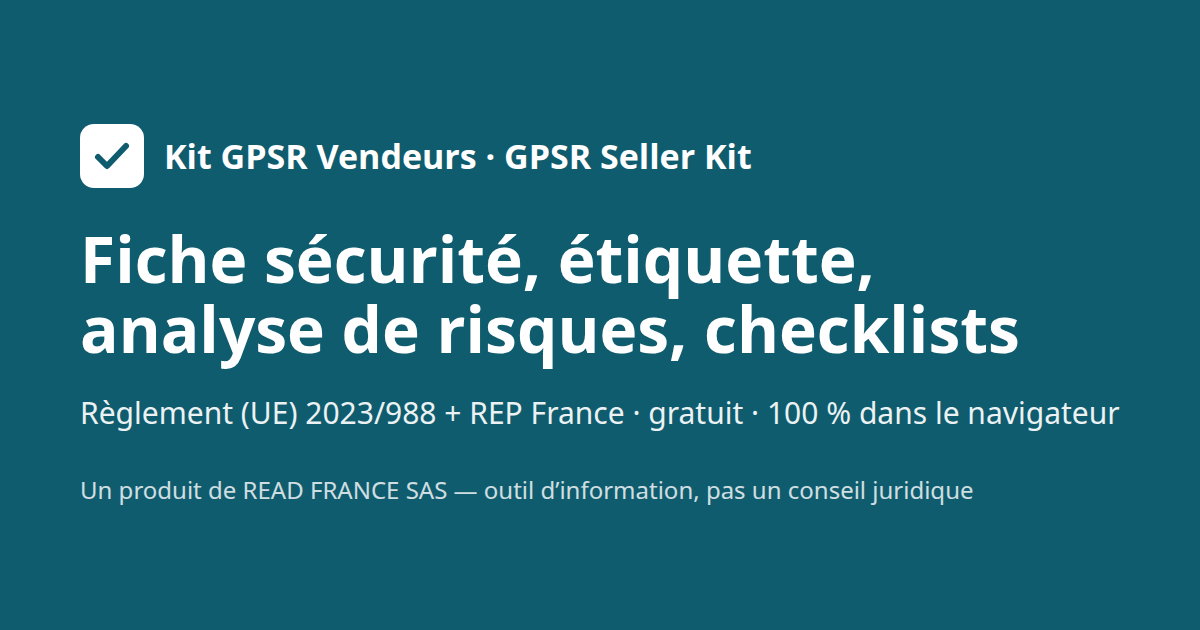
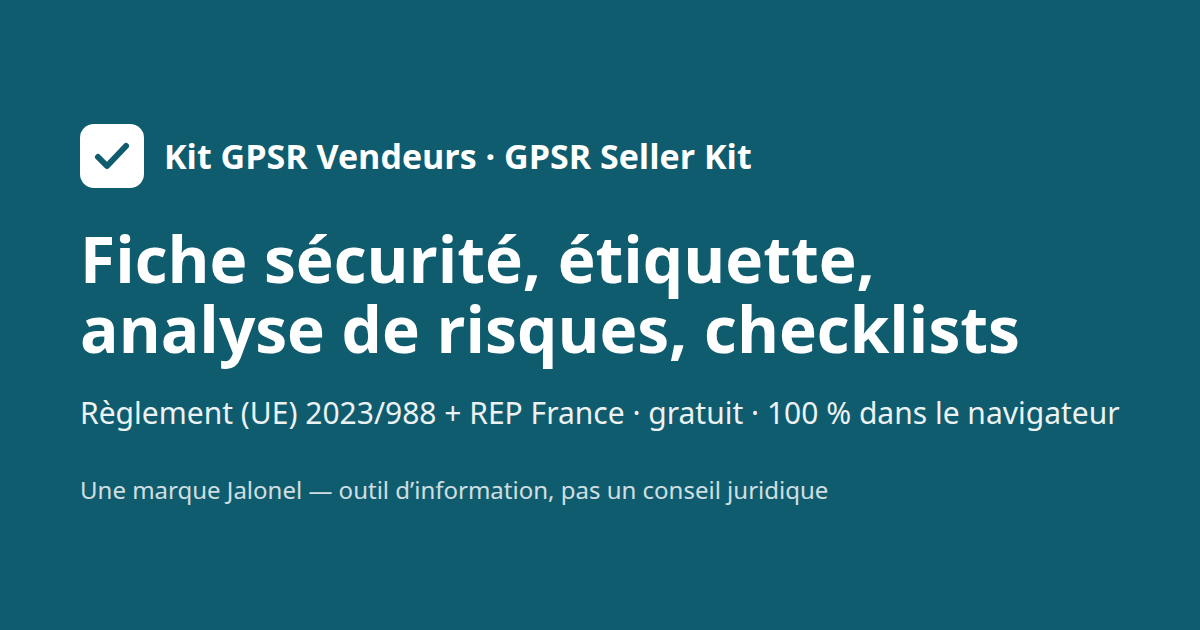
Move to the Jalonel brand: site served at the root of gpsr.jalonel.com
- canonical, hreflang, og, JSON-LD, sitemap, robots on the new origin; site root moves from /kit-gpsr-vendeurs/ to /
- brand: « Une marque Jalonel » in the footer, JSON-LD publisher = Jalonel (parentOrganization READ FRANCE SAS);
  the legal operator READ FRANCE SAS stays in the legal notice, terms and privacy pages, plus « Jalonel est une marque de READ FRANCE SAS. »
- cross-site links to the Jalonel subdomains, « Tous les outils » to https://jalonel.com/
- cro.js data-hosts accepts the new host; mesure.js re-vendored from octave-checkout (accepts *.jalonel.com)
- CNAME and IndexNow key at the published root; tests and README follow

Changed region(s): [[0.0925, 0.754, 0.8017, 0.8143]]

diff --git a/tests/unit/jsonld.test.js b/tests/unit/jsonld.test.js
@@ -1,5 +1,5 @@
 // schema.org JSON-LD: the pack page carries a Product + Offer (only while SALES_OPEN is true) sold by the
-// hub Organization; pages reference that Organization by @id (https://outils.vread.fr/#org) and never repeat it.
+// hub Organization; pages reference that Organization by @id (https://jalonel.com/#org) and never repeat it.
 import { test } from 'node:test';
 import assert from 'node:assert/strict';
 import { execFileSync } from 'node:child_process';
@@ -10,7 +10,7 @@ import { join, resolve } from 'node:path';
 const ROOT = resolve(import.meta.dirname, '..', '..');
 const repoConfig = JSON.parse(readFileSync(join(ROOT, 'sales.config.json'), 'utf8'));
 const tmp = mkdtempSync(join(tmpdir(), 'jsonld-'));
-const ORG_ID = 'https://outils.vread.fr/#org';
+const ORG_ID = 'https://jalonel.com/#org';
 
 function build(config, env = {}) {
   const cfg = join(tmp, `cfg-${Math.random().toString(36).slice(2)}.json`);
@@ -27,7 +27,7 @@ function jsonld(html) {
 }
 const byType = (nodes, type) => nodes.filter((n) => n['@type'] === type);
 
-const ORG_REF = { '@type': 'Organization', '@id': ORG_ID, name: 'READ FRANCE SAS' };
+const ORG_REF = { '@type': 'Organization', '@id': ORG_ID, name: 'Jalonel', url: 'https://jalonel.com/', parentOrganization: { '@type': 'Organization', name: 'READ FRANCE SAS', identifier: 'SIREN 988741773' } };
 
 /** The full Organization node lives on the hub only: no page here may repeat it. */
 function assertNoOrganizationCopy(nodes) {
@@ -49,8 +49,8 @@ for (const [file, lang] of [['pack.html', 'fr'], ['en/pack.html', 'en']]) {
     assert.equal(p.name, 'Pack documentation GPSR');
     assert.equal(p.sku, 'pack-gpsr');
     assert.deepEqual(p.brand, { '@type': 'Brand', name: 'Kit GPSR Vendeurs' });
-    assert.equal(p.url, `https://outils.vread.fr/kit-gpsr-vendeurs/${lang === 'fr' ? '' : 'en/'}pack.html`);
-    assert.equal(p.image, 'https://outils.vread.fr/kit-gpsr-vendeurs/assets/og.png');
+    assert.equal(p.url, `https://gpsr.jalonel.com/${lang === 'fr' ? '' : 'en/'}pack.html`);
+    assert.equal(p.image, 'https://gpsr.jalonel.com/assets/og.png');
     assert.ok(p.description.length > 50);
     const o = p.offers;
     assert.equal(o['@type'], 'Offer');
@@ -58,14 +58,14 @@ for (const [file, lang] of [['pack.html', 'fr'], ['en/pack.html', 'en']]) {
     assert.equal(o.priceCurrency, 'EUR');
     assert.equal(o.availability, 'https://schema.org/InStock');
     assert.equal(o.itemCondition, 'https://schema.org/NewCondition');
-    assert.equal(o.url, 'https://outils.vread.fr/kit-gpsr-vendeurs/commander.html');
+    assert.equal(o.url, 'https://gpsr.jalonel.com/commander.html');
     assert.deepEqual(o.seller, { '@id': ORG_ID });
     assert.ok(!('valueAddedTaxIncluded' in o), 'no valueAddedTaxIncluded');
     assert.equal(o.shippingDetails.shippingRate.value, '0');
     assert.equal(o.shippingDetails.shippingDestination.addressCountry, 'FR');
     assert.equal(o.hasMerchantReturnPolicy.returnPolicyCategory, 'https://schema.org/MerchantReturnNotPermitted');
     assert.equal(o.hasMerchantReturnPolicy.applicableCountry, 'FR');
-    assert.match(o.hasMerchantReturnPolicy.merchantReturnLink, /^https:\/\/outils\.vread\.fr\/kit-gpsr-vendeurs\/.+/);
+    assert.match(o.hasMerchantReturnPolicy.merchantReturnLink, /^https:\/\/gpsr\.jalonel\.com\/.+/);
   });
 }
 
@@ -84,7 +84,7 @@ test('SALES_OPEN=false: no Product JSON-LD on the pack pages', () => {
 });
 
 test('home pages: free WebApplication published by the hub Organization (@id), visible pack link with the net price', () => {
-  for (const [file, re] of [['index.html', /<a href="\/kit-gpsr-vendeurs\/pack\.html">Pack documentation GPSR, 29 € net<\/a>/], ['en/index.html', /<a href="\/kit-gpsr-vendeurs\/en\/pack\.html">GPSR documentation pack, €29 net<\/a>/]]) {
+  for (const [file, re] of [['index.html', /<a href="\/pack\.html">Pack documentation GPSR, 29 € net<\/a>/], ['en/index.html', /<a href="\/en\/pack\.html">GPSR documentation pack, €29 net<\/a>/]]) {
     const html = readFileSync(join(open, file), 'utf8');
     const nodes = jsonld(html);
     assertNoOrganizationCopy(nodes);
@@ -118,8 +118,8 @@ test('pack and obligations pages: BreadcrumbList (generator > page); obligations
     const [bc] = byType(nodes, 'BreadcrumbList');
     assert.ok(bc, `${file} BreadcrumbList`);
     assert.equal(bc.itemListElement.length, 2);
-    assert.equal(bc.itemListElement[0].item, `https://outils.vread.fr/kit-gpsr-vendeurs/${lang === 'fr' ? '' : 'en/'}`);
-    assert.equal(bc.itemListElement[1].item, `https://outils.vread.fr/kit-gpsr-vendeurs/${lang === 'fr' ? '' : 'en/'}${file.replace(/^en\//, '')}`);
+    assert.equal(bc.itemListElement[0].item, `https://gpsr.jalonel.com/${lang === 'fr' ? '' : 'en/'}`);
+    assert.equal(bc.itemListElement[1].item, `https://gpsr.jalonel.com/${lang === 'fr' ? '' : 'en/'}${file.replace(/^en\//, '')}`);
     if (!file.includes('obligations')) continue;
     assertNoOrganizationCopy(nodes);
     const [art] = byType(nodes, 'Article');

diff --git a/tests/unit/sales-gate.test.js b/tests/unit/sales-gate.test.js
@@ -16,7 +16,7 @@ import { chromium } from '@playwright/test';
 
 const ROOT = resolve(import.meta.dirname, '..', '..');
 const BUILD = ['scripts/build-site.mjs'];
-const SITE_PREFIX = ''; // files are read from OUT; the browser test serves OUT under /kit-gpsr-vendeurs/
+const SITE_PREFIX = ''; // files are read from OUT; the browser test serves OUT at the root, like gpsr.jalonel.com
 const PRODUCT = 'kit-gpsr-pack';
 const PRICE_RE = /29,00\s€ net de taxe \(TVA non applicable, art\. 293 B du CGI\)/;
 const SOON_RE = /Pas encore en vente/;
@@ -128,7 +128,7 @@ test('B2B terms (cgv-pro.html): every required clause, version, review comment, 
   if (repoConfig.VAT === 'franchise293B') assert.doesNotMatch(text, /TTC|toutes taxes comprises|FR57988741773|de TVA au taux/, 'franchise 293 B: no VAT wording in the B2B terms');
   assert.match(html, /READ FRANCE SAS/);
   assert.match(html, /<footer/);
-  assert.match(html, /href="\/kit-gpsr-vendeurs\/cgv-pro\.html"/);
+  assert.match(html, /href="\/cgv-pro\.html"/);
   assert.match(read(build({ ...repoConfig, SALES_OPEN: false }), 'en/terms.html'), /French version|French B2B terms/);
   for (const n of [5, 6, 12, 13, 15]) assert.match(html, new RegExp(`<h2>${n}\\. `), `article ${n}`);
   assert.match(html, /<h2>5\. Commande et paiement<\/h2>[\s\S]*<h2>6\. Livraison et délai<\/h2>[\s\S]*<h2>10\. Conformité[\s\S]*<h2>12\. Facturation[\s\S]*<h2>13\. Données personnelles<\/h2>[\s\S]*<h2>15\. Dispositions diverses<\/h2>/);
@@ -161,7 +161,7 @@ before(async () => {
     }
   });
   await new Promise((r) => server.listen(0, '127.0.0.1', r));
-  base = `http://127.0.0.1:${server.address().port}/kit-gpsr-vendeurs/`;
+  base = `http://127.0.0.1:${server.address().port}/`;
 });
 after(async () => {
   await browser?.close();
@@ -172,7 +172,7 @@ test('SALES_OPEN=true (test build): Commander page, order page, config, sitemap,
   const cmd = read(openDir, 'commander.html');
   for (const name of ['email', 'company', 'siren', 'addressLine1', 'addressLine2', 'postalCode', 'city', 'terms']) assert.match(cmd, new RegExp(`name="${name}"`), name);
   assert.match(cmd, /<h2 id="commander-h">Commander<\/h2>/);
-  assert.match(cmd, /id="terms-link" href="\/kit-gpsr-vendeurs\/cgv-pro\.html"/);
+  assert.match(cmd, /id="terms-link" href="\/cgv-pro\.html"/);
   assert.match(cmd, /<meta name="robots" content="noindex">/);
   assert.match(cmd, /Content-Security-Policy[^>]*js\.stripe\.com[^>]*script\.google\.com/);
   assert.match(cmd, /<script src="https:\/\/js\.stripe\.com\/v3\/"><\/script>/);
@@ -182,14 +182,14 @@ test('SALES_OPEN=true (test build): Commander page, order page, config, sitemap,
   assert.match(read(openDir, 'commande.html'), /<meta name="robots" content="noindex">/);
   const conf = read(openDir, 'assets/checkout/checkout-config.js');
   assert.match(conf, /"product":"kit-gpsr-pack"/);
-  assert.match(conf, /"orderPage":"\/kit-gpsr-vendeurs\/commande\.html"/);
+  assert.match(conf, /"orderPage":"\/commande\.html"/);
   assert.match(conf, /cgv-pro\.html/);
   assert.match(conf, new RegExp(`"amount":${OPEN_CFG.amount},"currency":"eur","termsVersion":"cgv-pro-2026-10-13"`));
   for (const f of ['pay.js', 'order.js']) assert.equal(read(openDir, `assets/checkout/${f}`), readFileSync(join(ROOT, 'src/checkout', f), 'utf8'));
   assert.doesNotMatch(read(openDir, 'sitemap.xml'), /commande|commander/);
   assert.match(read(openDir, 'sitemap.xml'), /cgv-pro\.html/);
-  assert.match(read(openDir, 'pack.html'), /href="\/kit-gpsr-vendeurs\/commander\.html"/);
-  assert.match(read(openDir, 'en/pack.html'), /href="\/kit-gpsr-vendeurs\/commander\.html"/);
+  assert.match(read(openDir, 'pack.html'), /href="\/commander\.html"/);
+  assert.match(read(openDir, 'en/pack.html'), /href="\/commander\.html"/);
   assert.doesNotMatch(read(openDir, 'pack.html'), SOON_RE);
   assert.doesNotMatch(read(openDir, 'cgv-pro.html'), /Les ventes ne sont pas encore ouvertes/);
 });

diff --git a/tests/e2e/site.spec.js b/tests/e2e/site.spec.js
@@ -29,9 +29,9 @@ for (const path of PAGES) {
     await expect(page.locator('h1')).toHaveCount(1);
     expect(await page.title()).toMatch(/GPSR|CGV|Terms|Mentions|Legal|Confidentialit|Privacy/);
     await expect(page.locator('meta[name="description"]')).toHaveAttribute('content', /.{40,}/);
-    await expect(page.locator('link[rel="canonical"]')).toHaveAttribute('href', /^https:\/\/outils\.vread\.fr\/kit-gpsr-vendeurs\//);
+    await expect(page.locator('link[rel="canonical"]')).toHaveAttribute('href', /^https:\/\/gpsr\.jalonel\.com\//);
     await expect(page.locator('meta[property="og:image"]')).toHaveCount(1);
-    await expect(page.locator('footer')).toContainText('READ FRANCE SAS');
+    await expect(page.locator('footer')).toContainText(/Une marque Jalonel|A Jalonel brand/);
     expect(await page.evaluate(() => document.documentElement.scrollWidth)).toBeLessThanOrEqual(page.viewportSize().width);
     expect(w.errors).toEqual([]);
     expect(w.foreign).toEqual([]);
@@ -47,11 +47,11 @@ test('every page loads cro.js (site, api, hosts, CTA) and exposes window.octaveC
   for (const path of [...PAGES, ...(SALES_OPEN ? ['commander.html'] : [])]) {
     const res = await page.goto(path);
     expect(res.status(), path).toBe(200);
-    const s = page.locator('script[src$="/kit-gpsr-vendeurs/cro.js"]');
+    const s = page.locator('script[src="/cro.js"]');
     await expect(s, path).toHaveCount(1);
     await expect(s).toHaveAttribute('data-site', 'kit-gpsr-vendeurs');
     await expect(s).toHaveAttribute('data-api', CRO_API);
-    await expect(s).toHaveAttribute('data-hosts', 'outils.vread.fr');
+    await expect(s).toHaveAttribute('data-hosts', 'gpsr.jalonel.com outils.vread.fr');
     await expect(s).toHaveAttribute('data-cta', 'a[href*=commander],#pay-button,#btn-generate');
     await page.waitForFunction(() => !!window.octaveCro);
     expect(await page.evaluate(() => [typeof window.octaveCro.goal, window.octaveCro.v('price'), window.OCTAVE_XP])).toEqual(['function', undefined, undefined]);
@@ -73,7 +73,8 @@ test('all internal links resolve (200)', async ({ page, request }) => {
   for (const path of PAGES) {
     await page.goto(path);
     const hrefs = await page.$$eval('a[href]', (as) => as.map((a) => a.href));
-    for (const h of hrefs) if (h.includes('/kit-gpsr-vendeurs/') && !h.includes('#')) seen.add(h.split('#')[0]);
+    const host = new URL(test.info().project.use.baseURL).host;
+    for (const h of hrefs) if (new URL(h).host === host && !h.startsWith('mailto:') && !h.includes('#')) seen.add(h.split('#')[0]);
   }
   const base = test.info().project.use.baseURL;
   for (const u of [...seen, ...['sitemap.xml', 'robots.txt', 'assets/og.png', 'assets/favicon.svg'].map((p) => new URL(p, base).href)]) {

diff --git a/tests/unit/quotes-gate.test.js b/tests/unit/quotes-gate.test.js
@@ -73,12 +73,12 @@ test('quotesEnabled=true (test build): block once right after #octave-pay, devis
   assert.equal(cmd.match(/id="octave-devis-box"/g)?.length, 1);
   assert.equal(cmd.match(/<form id="octave-devis"/g)?.length, 1);
   assert.match(cmd, /<form id="octave-pay"[\s\S]*?<\/form>\s*<details id="octave-devis-box" class="card devis-box" hidden>/);
-  assert.match(cmd, /<script src="\/kit-gpsr-vendeurs\/assets\/checkout\/pay\.js"><\/script>\s*<script src="\/kit-gpsr-vendeurs\/assets\/checkout\/devis\.js"><\/script>/);
+  assert.match(cmd, /<script src="\/assets\/checkout\/pay\.js"><\/script>\s*<script src="\/assets\/checkout\/devis\.js"><\/script>/);
   assert.equal(cmd.match(/devis\.js/g)?.length, 1);
   const box = cmd.slice(cmd.indexOf('<details id="octave-devis-box"'), cmd.indexOf('</details>') + 10);
   for (const name of ['email', 'company', 'siren', 'addressLine1', 'addressLine2', 'postalCode', 'city', 'buyerRef', 'website', 'terms']) assert.match(box, new RegExp(`name="${name}"`), name);
   assert.match(box, /<div class="hp" aria-hidden="true">/);
-  assert.match(box, /class="terms-link" href="\/kit-gpsr-vendeurs\/cgv-pro\.html"/); // same CGV link as the card form
+  assert.match(box, /class="terms-link" href="\/cgv-pro\.html"/); // same CGV link as the card form
   assert.match(box, /\(version du 13 octobre 2026\)/);
   assert.doesNotMatch(box, /\{\{|\}\}/);
   assert.deepEqual(dupes(ids(cmd)), []);
@@ -137,7 +137,7 @@ test('browser (quotesEnabled=true, stubbed endpoint): box shown, posts action "q
       posts.push(body);
       return r.fulfill({ contentType: 'application/json', body: JSON.stringify(body.action === 'quote' ? { ok: true, quote: 'D-2026-0001', email_masked: 'a***@entreprise.example' } : { ok: false, message: 'stub' }) });
     });
-    await page.goto(`http://127.0.0.1:${server.address().port}/kit-gpsr-vendeurs/commander.html?octave_notrack=1`);
+    await page.goto(`http://127.0.0.1:${server.address().port}/commander.html?octave_notrack=1`);
     await page.waitForSelector('#octave-devis-box:not([hidden])');
     await page.click('#octave-devis-box summary');
     const f = (n, v) => page.fill(`#octave-devis input[name="${n}"]`, v);

diff --git a/src/site/mesure.js b/src/site/mesure.js
@@ -1,9 +1,9 @@
 /*! audience anonyme */
-((n,l,d)=>{let R=/(^|\/)(commander|alertes\/)/,p=l.pathname,q=new URLSearchParams(l.search),g=p.split('/')[1],c=R.test(p),A=(k,f)=>d.addEventListener(k,f,!0),K='octave_notrack',b,t,x,s,o;
-if(n.doNotTrack=='1'||n.globalPrivacyControl||l.hostname!='outils.vread.fr')return;
+((n,l,d)=>{let R=/(^|\/)(commander|alertes\/)/,p=l.pathname,q=new URLSearchParams(l.search),H=l.hostname,J={'jalonel.com':'jalonel',www:'jalonel',qualiopi:'kit-qualiopi-v10',gpsr:'kit-gpsr-vendeurs',accessibilite:'declaration-accessibilite','ao-formation':'veille-ao-formation','lot-repere':'lot-repere',courrier:'comprendre-mon-courrier','tcf-canada':'tcf-canada-entrainement',marques:'veille-marques','visibilite-ia':'visibilite-ia'}[H.replace(/\.jalonel\.com$/,'')],g=p.split('/')[1],c=R.test(p),A=(k,f)=>d.addEventListener(k,f,!0),K='octave_notrack',b,t,x,s,o;
+if(n.doNotTrack=='1'||n.globalPrivacyControl||H!='outils.vread.fr'&&!J)return;
 try{s=localStorage;q.has(K)&&(q.get(K)=='1'?s.setItem(K,1):s.removeItem(K));x=s.getItem(K)=='1'&&'notrack'}catch{}
 x=x||q.get(K)=='1'&&'notrack'||n.webdriver&&'webdriver'||/bot\b|crawl|spider|slurp|headless|lighthouse|pagespeed|inspectiontool|googleother|mediapartners|bingpreview|phantom|puppeteer|playwright|selenium/i.test(n.userAgent)&&'bot';
-b={v:2,site:/^(kit-|veille-|declaration-|comprendre-|tcf-|visibilite-)/.test(g)?g:'hub',page:p,ref_domain:d.referrer.split('/')[2],device:innerWidth<768?'mobile':'desktop'};
+b={v:2,site:J||(/^(kit-|veille-|declaration-|comprendre-|tcf-|visibilite-|lot-|civiclasse|chapter-checks)/.test(g)?g:'hub'),page:p,ref_domain:d.referrer.split('/')[2],device:innerWidth<768?'mobile':'desktop'};
 x&&(b.excluded=x);
 for(g of['source','medium','campaign'])b['utm_'+g]=q.get('utm_'+g);
 t=v=>{b.event=v;b.ts=Date.now();try{fetch('https://script.google.com/macros/s/AKfycbzD1IRL8QALluKGZxgGiORFP6-DkC_qFJYR9aOxZiimxa06nbCqpzUI-9iLblp6V2VY/exec?action=track',{method:'POST',keepalive:!0,credentials:'omit',redirect:'manual',body:JSON.stringify(b)}).catch(e=>0)}catch{}};

diff --git a/tests/unit/cro.test.js b/tests/unit/cro.test.js
@@ -10,7 +10,7 @@ import { join, resolve } from 'node:path';
 
 const ROOT = resolve(import.meta.dirname, '..', '..');
 const CRO = join(ROOT, 'src', 'site', 'cro.js');
-const TAG = '<script src="/kit-gpsr-vendeurs/cro.js" data-site="kit-gpsr-vendeurs" data-api="https://script.google.com/macros/s/AKfycbzD1IRL8QALluKGZxgGiORFP6-DkC_qFJYR9aOxZiimxa06nbCqpzUI-9iLblp6V2VY/exec" data-hosts="outils.vread.fr" data-cta="a[href*=commander],#pay-button,#btn-generate" defer></script>\n<script src="/kit-gpsr-vendeurs/cro-goals.js" defer></script>';
+const TAG = '<script src="/cro.js" data-site="kit-gpsr-vendeurs" data-api="https://script.google.com/macros/s/AKfycbzD1IRL8QALluKGZxgGiORFP6-DkC_qFJYR9aOxZiimxa06nbCqpzUI-9iLblp6V2VY/exec" data-hosts="gpsr.jalonel.com outils.vread.fr" data-cta="a[href*=commander],#pay-button,#btn-generate" defer></script>\n<script src="/cro-goals.js" defer></script>';
 
 test('cro.js passes the portable cro.check.mjs', () => {
   execFileSync(process.execPath, [join(ROOT, 'tests', 'unit', 'cro.check.mjs'), CRO], { stdio: 'pipe' });
@@ -25,7 +25,7 @@ test('every built page (FR, EN, 404, order pages) loads cro.js after mesure.js; 
   assert.ok(pages.length >= 14 && pages.includes('404.html') && pages.includes('en/index.html'));
   for (const f of pages) {
     const html = readFileSync(join(out, f), 'utf8');
-    assert.ok(html.includes('<script src="/kit-gpsr-vendeurs/mesure.js" defer></script>\n' + TAG), `${f} loads cro.js`);
+    assert.ok(html.includes('<script src="/mesure.js" defer></script>\n' + TAG), `${f} loads cro.js`);
     assert.doesNotMatch(html, /OCTAVE_XP/, `${f}: no A/B experiment on this site`);
   }
 });

diff --git a/src/site/app.css b/src/site/app.css
@@ -168,7 +168,7 @@ table.compare tbody th { font-weight: 500; }
 .about .muted { font-size: .92rem; }
 .about-intro { max-width: 70ch; }
 .about-intro h2 { margin: 0 0 6px; }
-/* Founders (same block on every outils.vread.fr site) */
+/* Founders (same block on every Jalonel site) */
 .founders { list-style: none; margin: 20px 0 0; padding: 0; display: grid; gap: 16px; }
 .founder { display: grid; align-content: start; grid-template-columns: 96px 1fr; gap: 14px 18px; align-items: center; margin: 0; padding: 18px; background: var(--bg); border: 1px solid var(--line); border-radius: 14px; }
 .founder-photo { display: block; width: 96px; height: 96px; border-radius: 50%; object-fit: cover; background: var(--line); box-shadow: 0 0 0 3px var(--surface), 0 0 0 4px var(--line); }
@@ -306,7 +306,7 @@ label.check input { margin-top: .3em; width: 20px; height: 20px; flex: none; }
 .roles dt { font-weight: 700; margin-top: .8em; }
 .roles dd { margin: .2em 0 0; }
 
-/* Cross-site block « Autres outils READ FRANCE » (same markup on every outils.vread.fr site) */
+/* Cross-site block « Autres outils Jalonel » (same markup on every Jalonel site) */
 footer.site nav.rf-network { display: block; margin: 0 0 14px; }
 .rf-network-title { margin: 0 0 .3rem; font-weight: 600; color: var(--ink); }
 .rf-network ul { list-style: none; margin: 0; padding: 0; display: flex; flex-wrap: wrap; gap: .3rem 1.1rem; }

diff --git a/playwright.config.js b/playwright.config.js
@@ -1,16 +1,16 @@
 import { defineConfig, devices } from '@playwright/test';
 
-// BASE_URL=https://outils.vread.fr/kit-gpsr-vendeurs/ npx playwright test   -> checks the live site
+// BASE_URL=https://gpsr.jalonel.com/ npx playwright test   -> checks the live site
 const live = process.env.BASE_URL;
 export default defineConfig({
   testDir: 'tests/e2e',
   workers: 1,
   retries: live ? 1 : 0,
   reporter: [['list']],
-  use: { baseURL: live ?? 'http://localhost:4791/kit-gpsr-vendeurs/', acceptDownloads: true },
+  use: { baseURL: live ?? 'http://localhost:4791/', acceptDownloads: true },
   projects: [
     { name: 'desktop', use: { ...devices['Desktop Chrome'] } },
     { name: 'mobile', use: { ...devices['Desktop Chrome'], viewport: { width: 390, height: 844 }, isMobile: false } },
   ],
-  webServer: live ? undefined : { command: 'node scripts/serve.mjs dist 4791', url: 'http://localhost:4791/kit-gpsr-vendeurs/', reuseExistingServer: true },
+  webServer: live ? undefined : { command: 'node scripts/serve.mjs dist 4791', url: 'http://localhost:4791/', reuseExistingServer: true },
 });

diff --git a/README.md b/README.md
@@ -2,11 +2,13 @@
 
 Free, in-browser helper for small marketplace sellers (Etsy, Vinted Pro, Amazon Handmade, Shopify) who sell consumer products into the EU. It covers the General Product Safety Regulation, **Regulation (EU) 2023/988 (GPSR)**, plus the French **REP/EPR** rules.
 
-- Live, FR: https://outils.vread.fr/kit-gpsr-vendeurs/
-- Live, EN: https://outils.vread.fr/kit-gpsr-vendeurs/en/
+- Live, FR: https://gpsr.jalonel.com/
+- Live, EN: https://gpsr.jalonel.com/en/
 - Free template pack (ZIP, FR + EN, DOCX + Markdown): see [Releases](https://github.com/VREAD-corp/kit-gpsr-vendeurs/releases/latest).
 
-A product of READ FRANCE SAS.
+A Jalonel brand (https://jalonel.com/). Jalonel is a brand of READ FRANCE SAS.
+
+2026-10-16: moved to https://gpsr.jalonel.com/ (brand Jalonel, a brand of READ FRANCE SAS). The old address https://outils.vread.fr/kit-gpsr-vendeurs/ redirects (301) to the new one. GitHub Pages custom domain `gpsr.jalonel.com` (workflow build; the build also writes `dist/CNAME` and the IndexNow key file).
 
 > **Information tool, not legal advice.** You remain responsible for your products and documents. READ FRANCE SAS never acts as, and does not offer to act as, an EU "responsible person", authorised representative, importer or French EPR agent.
 
@@ -31,7 +33,7 @@ npm test               # unit tests (node:test): renderers, ZIP/DOCX, generator,
 npm run build          # static site -> dist/
 npm run templates      # free template pack -> dist-templates/*.zip (uploaded as a Release asset)
 npx playwright test    # e2e on a local server (desktop + 390 px)
-BASE_URL=https://outils.vread.fr/kit-gpsr-vendeurs/ npx playwright test   # same checks on the live site
+BASE_URL=https://gpsr.jalonel.com/ npx playwright test   # same checks on the live site
 ```
 
 There is no bundler and only one dev dependency (`@playwright/test`). The DOCX and ZIP writers are small in-house modules (`src/lib/render.js`, `src/lib/zip.js`).
